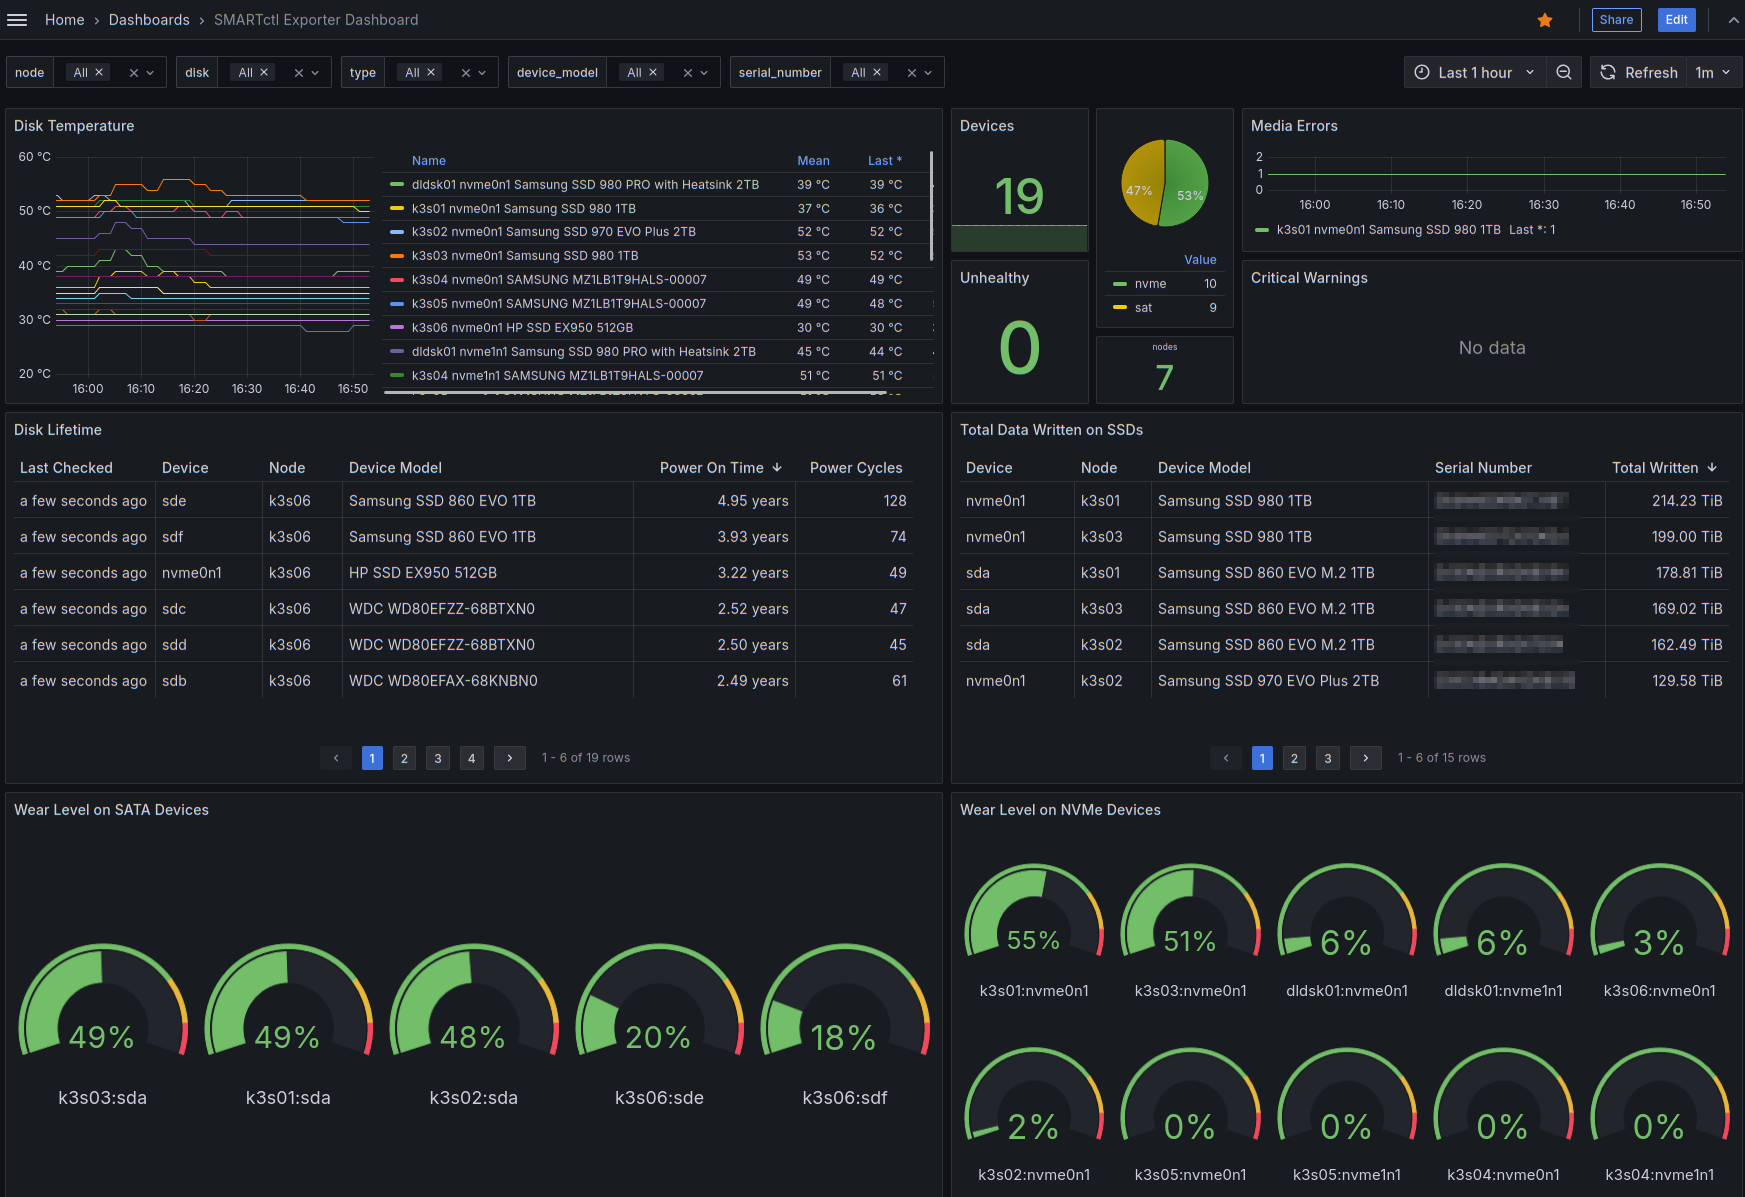
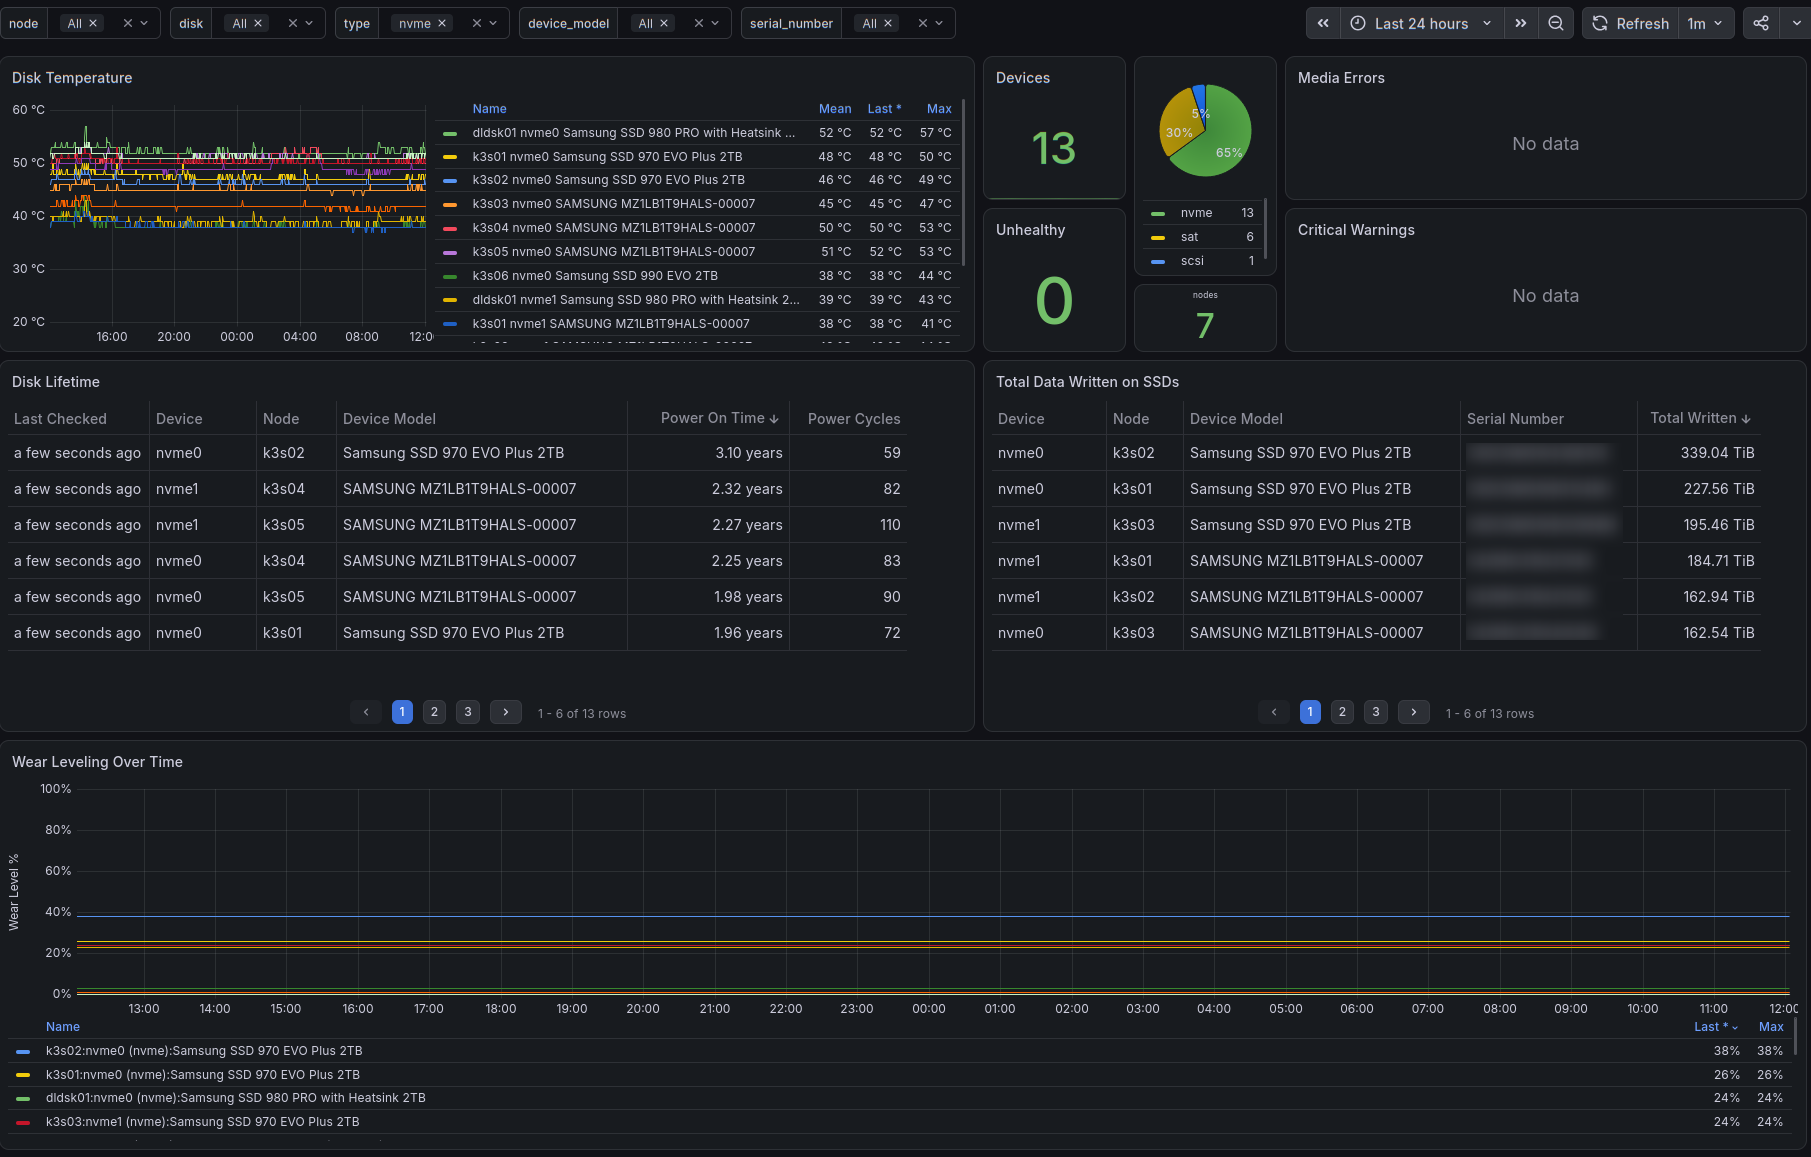
feat: update SMARTctl Exporter Dashboard with version compatibility details and improved temperature metrics

diff --git a/smartctl-exporter/README.md b/smartctl-exporter/README.md
@@ -8,4 +8,18 @@ A dashboard for Prometheus smartctl-exporter <https://github.com/prometheus-comm
 
 Available on [Grafana](https://grafana.com/grafana/dashboards/22604-smartctl-exporter-dashboard/) as ID: `22604`
 
+## smartctl-exporter Version Compatibility
+
+Starting with smartctl-exporter `0.15.0`, the `smartctl_device_temperature` metric has a `temperature_type` label. Along with the current temperature (`temperature_type="current"`), the exporter also exports each drive's temperature limits as series of the same metric (`op_limit_max`, `critical_limit_max` and `drive_trip`).
+
+Dashboard revision 3 and earlier average all `smartctl_device_temperature` series per drive. With exporter `0.15.0` or newer, the Disk Temperature panel shows inflated values (NVMe drives typically read 20-30°C hotter than actual).
+
+Revision 4 filters the temperature query with `temperature_type=~"current|"`. This works with exporter `0.15.0` and newer, and with older versions that do not have the `temperature_type` label.
+
+If you have alert rules based on `smartctl_device_temperature`, add the same filter to them. Otherwise the drive limit values will trigger false high temperature alerts, for example:
+
+```yaml
+expr: smartctl_device_temperature{temperature_type=~"current|"} > 65
+```
+
 [Back to Dashboard List](../README.md)
